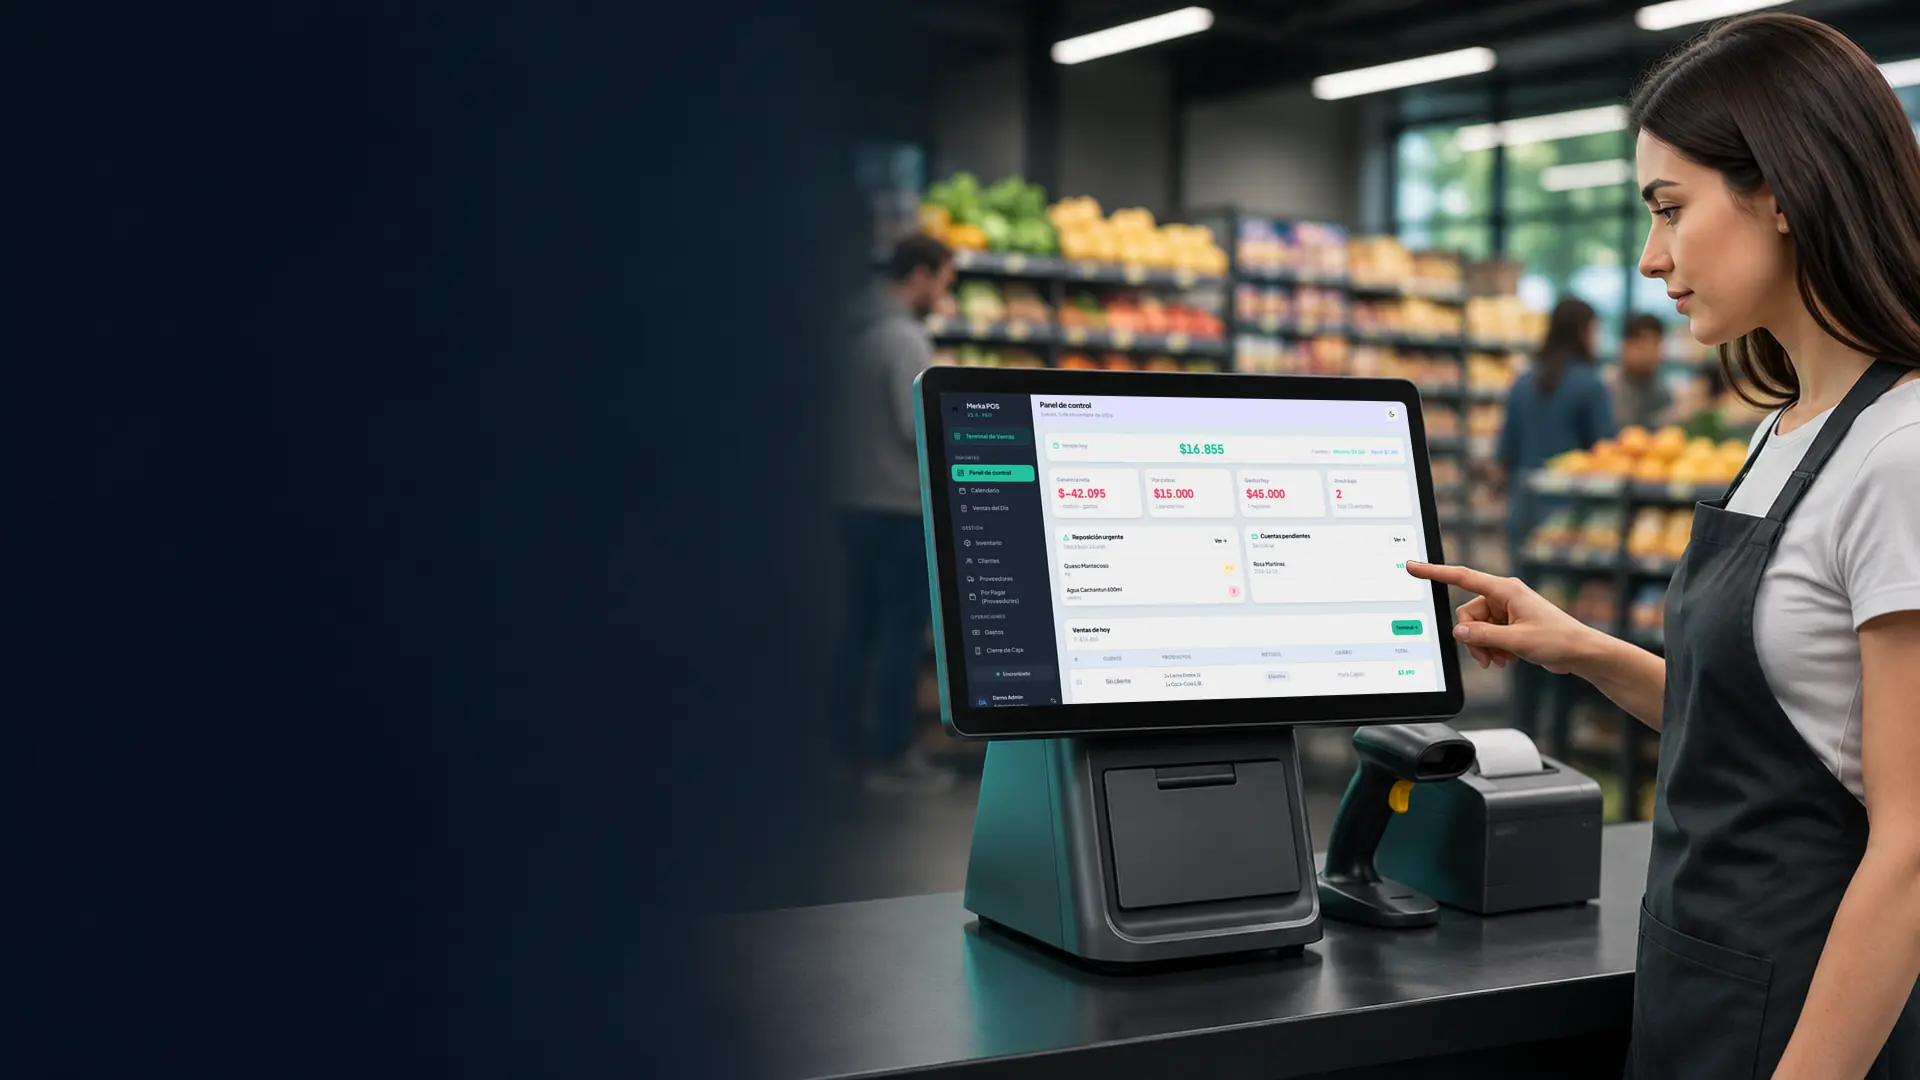
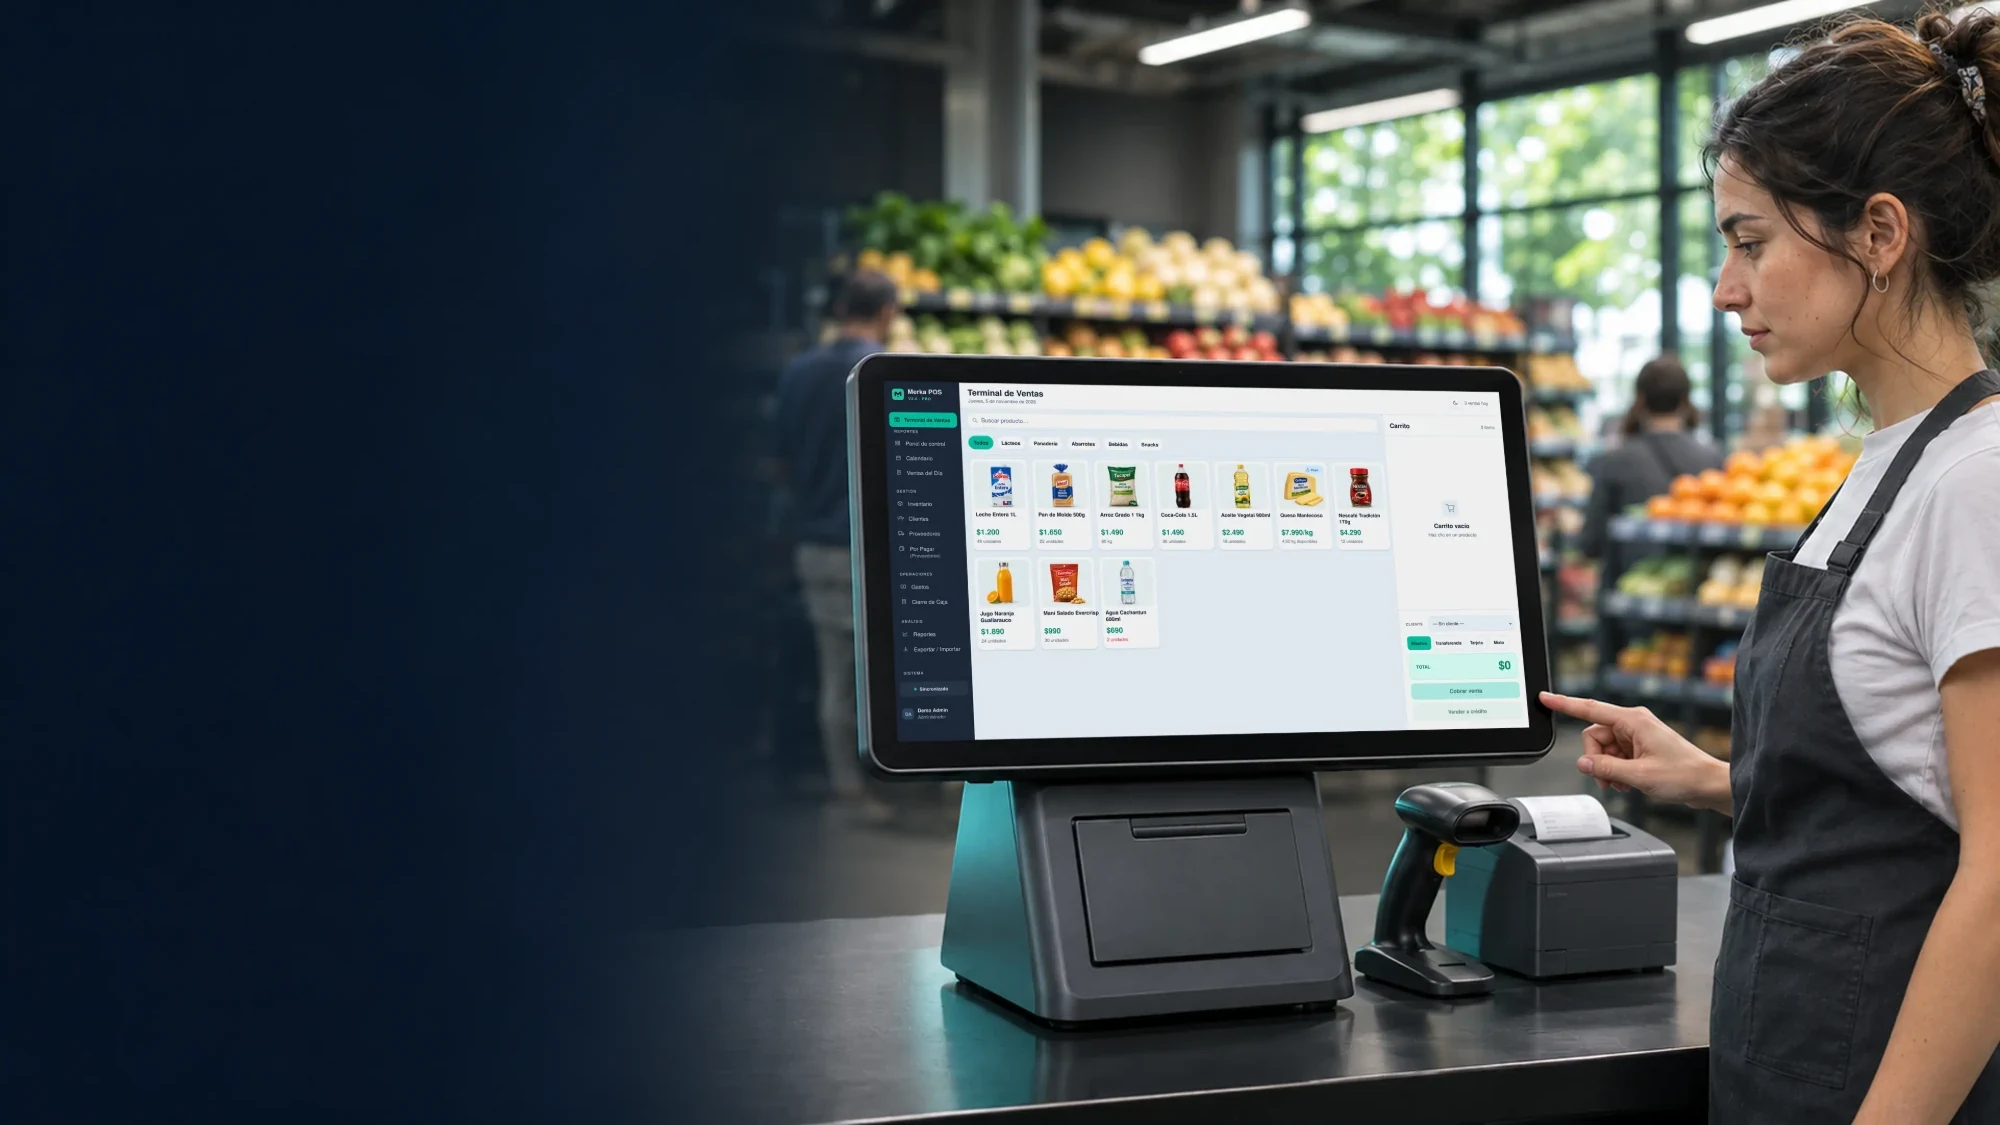
Nuevo hero en alta resolucion, Controla todo en turquesa, demo sobre fondo turquesa
Claude-Session: https://claude.ai/code/session_01KhPCjiuxuYiA4MVGKytNcd

diff --git a/index.html b/index.html
@@ -403,14 +403,14 @@ dialog::backdrop{background:rgba(12,26,46,.55);backdrop-filter:blur(3px)}
 @media(max-width:900px){.demo__grid{grid-template-columns:1fr}.demo__tabs{flex-direction:row;overflow-x:auto;scroll-snap-type:x mandatory;padding-bottom:4px}.demo__tab{flex:0 0 220px;scroll-snap-align:start}.demo__shots{grid-template-columns:1fr}}
 
 /* HERO CON FOTO + CTA FINAL CON FOTO */
-.hero.hero--img{--hbg:#07121d;background:var(--hbg);padding:0;text-align:left;min-height:clamp(540px,50vw,740px);display:flex;align-items:center;overflow:hidden}
+.hero.hero--img{--hbg:#061324;background:var(--hbg);padding:0;text-align:left;min-height:clamp(540px,50vw,740px);display:flex;align-items:center;overflow:hidden}
 .hero--img::before{display:none}
 .hero__media{position:absolute;inset:0}
-.hero__media img{width:100%;height:100%;object-fit:cover;object-position:right center}
+.hero__media img{position:absolute;right:0;top:0;width:90%;height:100%;object-fit:cover;object-position:right center;-webkit-mask-image:linear-gradient(90deg,transparent,#000 20%);mask-image:linear-gradient(90deg,transparent,#000 20%)}
 .hero--img .wrap{position:relative;z-index:1;padding-block:64px}
-.hero--img .hero__copy{max-width:520px;margin:0}
+.hero--img .hero__copy{max-width:490px;margin:0}
 .hero--img h1{color:#fff;font-size:clamp(38px,4.6vw,64px)}
-.hero--img h1 em{background:linear-gradient(transparent 84%, var(--lime-bright) 84% 94%, transparent 94%)}
+.hero--img h1 em{background:none;color:var(--lime-bright);padding:0;margin:0}
 .hero--img .eyebrow{color:#7dd3fc}
 .hero--img .lead{color:var(--slate);margin-inline:0}
 .hero--img .cta-row{justify-content:flex-start}
@@ -422,7 +422,7 @@ dialog::backdrop{background:rgba(12,26,46,.55);backdrop-filter:blur(3px)}
   .hero.hero--img{display:block;min-height:0}
   .hero__media{position:relative;inset:auto;aspect-ratio:16/10}
   .hero__media::after{content:"";position:absolute;inset:auto 0 0 0;height:45%;background:linear-gradient(transparent,var(--hbg))}
-  .hero__media img{object-position:72% center}
+  .hero__media img{position:static;width:100%;-webkit-mask-image:none;mask-image:none;object-position:72% center}
   .hero--img .wrap{padding-block:8px 48px}
   .hero--img .hero__copy{max-width:640px}
 }
@@ -437,17 +437,18 @@ dialog::backdrop{background:rgba(12,26,46,.55);backdrop-filter:blur(3px)}
   .final__copy{max-width:none;padding:8px 22px 44px}
 }
 
-/* DEMO sobre fondo oscuro */
-.demo{background:#07121d}
-.demo h2{color:#fff}.demo .lead{color:var(--slate)}.demo .eyebrow{color:#5eead4}
-.demo__tab{background:rgba(255,255,255,.04);border-color:rgba(255,255,255,.12)}
-.demo__tab strong{color:#fff}.demo__tab span{color:var(--slate)}
-.demo__tab:hover{border-color:rgba(255,255,255,.35)}
-.demo__tab[aria-selected=true]{border-color:var(--lime-bright);box-shadow:0 0 0 3px rgba(34,211,171,.2);background:rgba(34,211,171,.08)}
-.demo__frame{border-color:rgba(255,255,255,.12);box-shadow:0 30px 60px -24px rgba(0,0,0,.7)}
-.demo__shot img{border-color:rgba(255,255,255,.12);box-shadow:0 20px 40px -20px rgba(0,0,0,.7)}
-.demo__shot figcaption{color:var(--slate)}
-.demo :focus-visible{outline-color:var(--lime-bright)}
+/* DEMO sobre fondo turquesa */
+.demo{background:var(--lime-bright)}
+.demo h2{color:#101B2C}.demo .lead{color:#16403a}.demo .eyebrow{color:#101B2C}
+.demo .eyebrow::before{background:#101B2C;box-shadow:0 0 0 3px rgba(16,27,44,.15)}
+.demo__tab{background:rgba(255,255,255,.55);border:1.5px solid rgba(16,27,44,.12)}
+.demo__tab strong{color:#101B2C}.demo__tab span{color:#24454a}
+.demo__tab:hover{border-color:rgba(16,27,44,.45)}
+.demo__tab[aria-selected=true]{background:#fff;border-color:#101B2C;box-shadow:0 10px 24px -12px rgba(16,27,44,.5)}
+.demo__frame{border:1px solid rgba(16,27,44,.2);box-shadow:0 30px 60px -24px rgba(7,40,50,.55)}
+.demo__shot img{border-color:rgba(16,27,44,.15);box-shadow:0 20px 40px -20px rgba(7,40,50,.5)}
+.demo__shot figcaption{color:#16403a}
+.demo :focus-visible{outline-color:#101B2C}
 </style>
 </head>
 <body>
